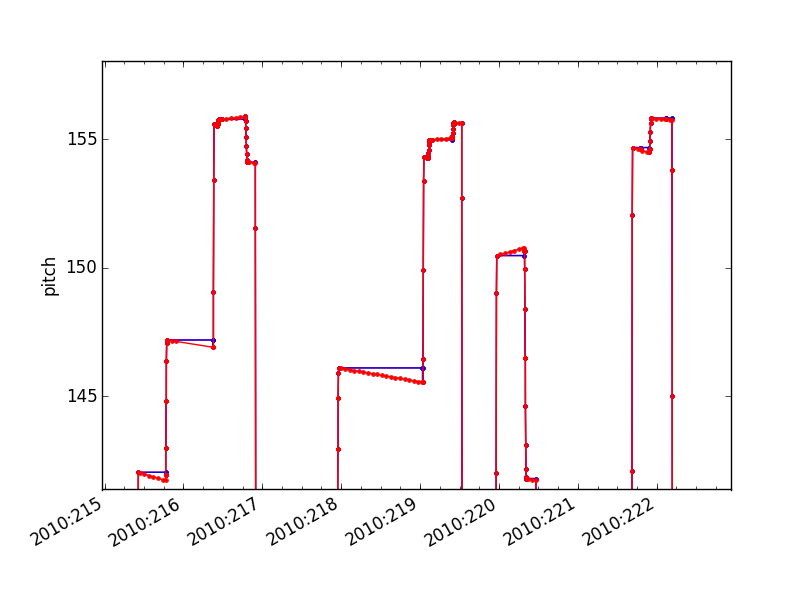
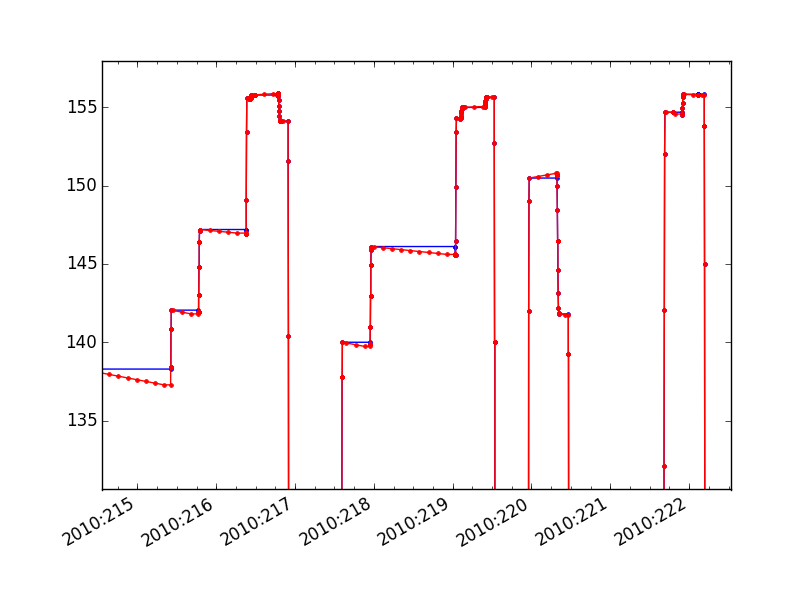
Update testing outputs after pitch sample patches

diff --git a/resample_states_verification/check_missing.py b/resample_states_verification/check_missing.py
@@ -1,5 +1,8 @@
 from Chandra.Time import DateTime
+equiv = []
 for t in missing:
     t_match = np.interp(DateTime(t).secs, test['tstart'], test['pitch'])
     ref_match = official[official['datestart'] == t][0]['pitch']
-    print t, ref_match - t_match
+    equiv.append(ref_match - t_match)
+
+print "biggest offset is {}".format(np.max(np.abs(equiv)))

diff --git a/resample_states_verification/NOTES.md b/resample_states_verification/NOTES.md
@@ -2,13 +2,19 @@
 Testing of changes to use mock GET_PITCH commands
 =================================================
 
-Used the timelines code to make a new test database and cmd states for 2010.  This made
-the archive by stepping through the days, which we don't care about for this, but, in the
-timelines repo:
-
+To create a body of test outputs for a good chunk of time, I used a pre-existing
+test setup from the timelines project to run this new code on a year of data (and a year's
+worth of calls to "update" that data).  To have the timelines test code run against this
+testing version of cmd_states, I did not use a custom PYTHONPATH but instead just
+installed the testing version to my devska in /data/fido/ska.  Then, from a timelines repo
+I ran:
 
     import timelines_test
     timelines_test.all_2010(cmd_state_ska='/data/fido/ska')
+
+This "all_2010" stepped through "days" and ran the testing version of cmd_states via calls
+to update_cmd_states, and as output created both a testing cmd_states.h5 file and left the
+testing cmd_states in the sybase test database.
 
 I then used fetch_states against the flight cmd_states.h5 and the testing cmd_states.h5 to
 create dat files limited to the columns that really should not be changing due to this
@@ -29,7 +35,9 @@ update.
     
     meld official_minus_point.dat test_minus_point.dat
 
-The small set of small timing diffs are acceptable on the non-pointing-related states.
+There are fewer than a dozen timing diffs of less than 0.04 seconds in the NMAN / NPNT
+transition times.  This is acceptable.
+
 
     official = fetch_states(start='2010:005', stop='2010:360',
          server='/proj/sot/ska/data/cmd_states/cmd_states.h5')
@@ -40,16 +48,21 @@ starting at the same time in the new table matches within a degree or so:
 
     run -i check_code.py
 
-    np.nanmax(diffs)
-    1.4172683417459382
+In [24]: np.nanmax(diffs)
+Out[24]: 1.3951456857497249
 
-    np.nanmin(diffs)
-    -1.0671455922835449
+In [25]: np.nanmin(diffs)
+Out[25]: -0.95967993552620356
+
+For any states "missing" from the new states (as in a new state does not exist at exactly
+the same starting time as the old states), I confirmed that the interpolated pitch at the
+time of the old state would be very close:
 
     run -i check_missing.py
 
-The largest offsets here appear to be due to discontinuities in the "official" data at the
-end of observations.  See:
+In [22]: run -i check_missing.py
+biggest offset is 0.00215984350712
+
 
 ![some_bigger_discontinuities.png](some_bigger_discontinuities.png)
 
